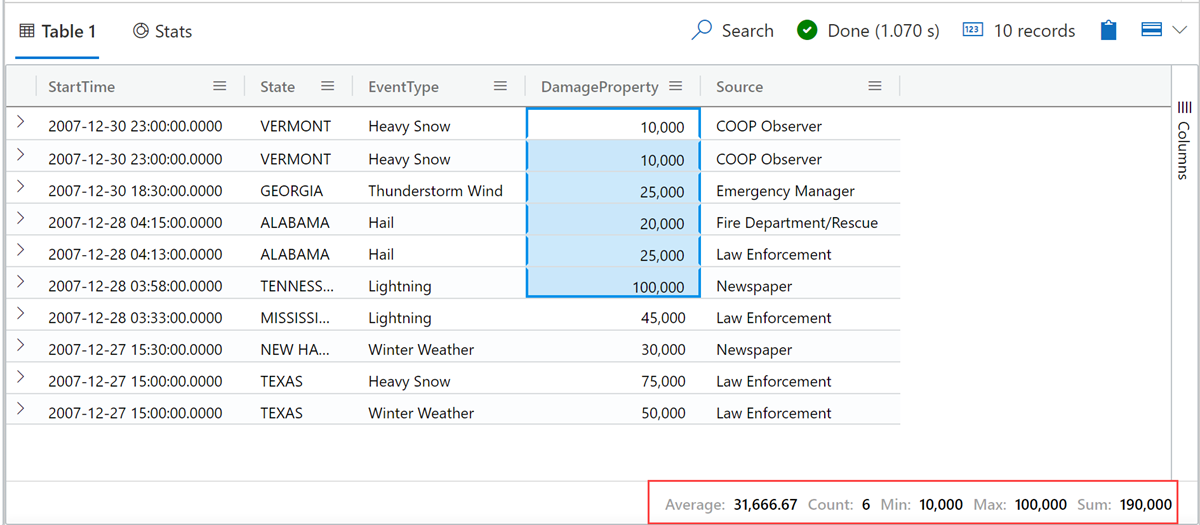
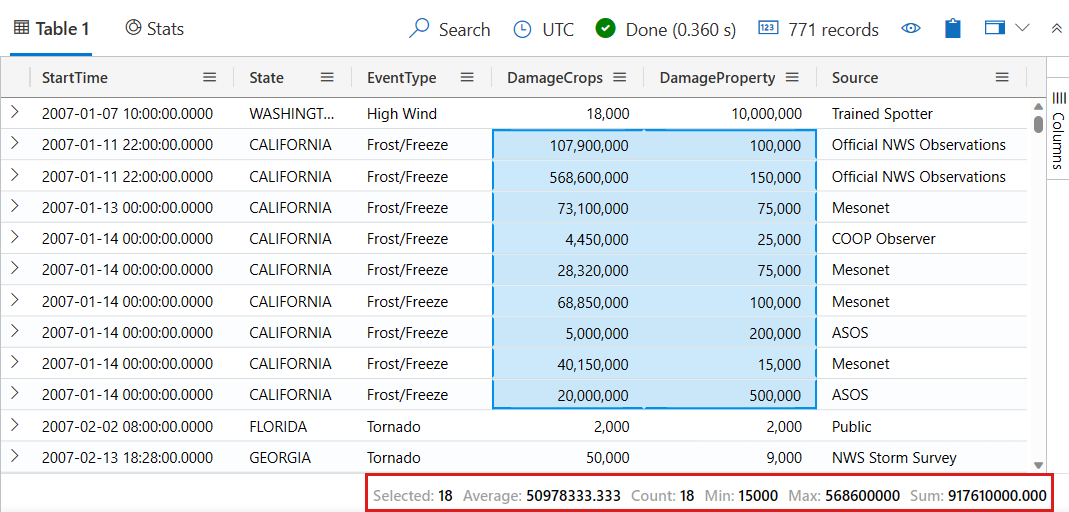
change query and image for stats

diff --git a/data-explorer/web-results-grid.md b/data-explorer/web-results-grid.md
@@ -194,14 +194,12 @@ To quickly calculate the **Average**, **Count**, **Min**, **Max**, and **Sum** f
 1. Run the following query.
 
     > [!div class="nextstepaction"]
-    > <a href="https://dataexplorer.azure.com/clusters/help/databases/Samples?query=H4sIAAAAAAAAA1WMMQ7CMBAEe15xD6BwCloq0kdKPmCcFSHIOeu8gCzxeA4aRLUj7c6OVMv9Axvr7iVVjXJuMjIap2uGzKjJi+cCg5xijhcMpgXGJkc5hBC8LaYrEn/a/oP0+D5PrTj+y77QuyW4zXiDdOENqkYty4oAAAA=" target="_blank">Run the query</a>
+    > <a href="https://dataexplorer.azure.com/clusters/help/databases/Samples?query=H4sIAAAAAAAAAwsuyS/KdS1LzSsp5qpRKM9ILUpVcEnMTUxPdS7KLyhWsFMwUEjMS4GKBQDFUotKKkHCQOUFRflZqcklCsEliUUlIZm5qTogZgmQApsYUlkAZCKZpoNmDFB5fmlRcioASkZ5RoUAAAA=" target="_blank">Run the query</a>
 
     ```kusto
     StormEvents
-    | sort by StartTime desc
-    | where DamageProperty > 5000
-    | project StartTime, State, EventType, DamageProperty, Source
-    | take 10
+    | where DamageCrops > 0 and DamageProperty > 0
+    | project StartTime, State, EventType, DamageCrops, DamageProperty, Source
     ```
 
 1. Select a few of the numerical cells. To select multiple cells, click and drag your mouse over the cells you want to select, or hold down the "Ctrl" key while clicking on each cell. The **Average**, **Count**, **Min**, **Max**, and **Sum**  are automatically calculated for these cells.
